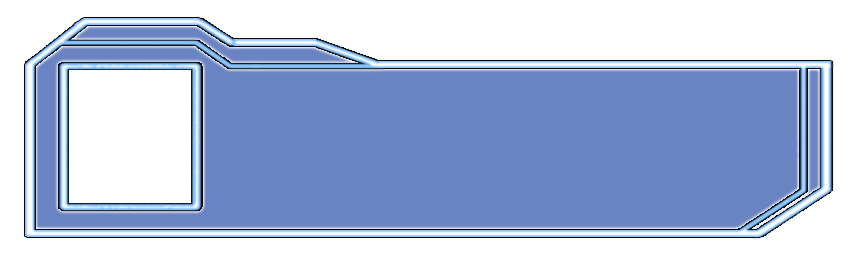
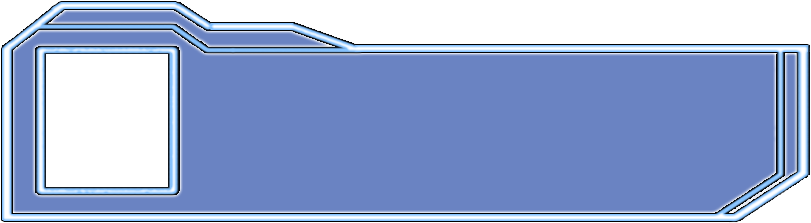
Removed nasty halo from dialogbox.png

diff --git a/js/core/helper.js b/js/core/helper.js
@@ -246,7 +246,7 @@ var gTalk			= new Object();
 gTalk.bild_id 		= "allg_dialogbox";			 //has to be initialised by dialogSettings()
 gTalk.canvas_id		= "null";			 //has to be initialised by dialogSettings()
 gTalk.font_color	= "yellow";			 //can be customized by dialogSettings()
-gTalk.font_style	= "bold 20px Avantgarde"; //can be customized by dialogSettings()
+gTalk.font_style	= "bold 22px Avantgarde"; //can be customized by dialogSettings()
 gTalk.line_distance = 18;				 //can be customized by dialogSettings()
 gTalk.dialog_id		= "null";
 gTalk.SatzCounter	= 0;
@@ -258,10 +258,10 @@ gTalk.TBPercPosX        = 20;    //Textbox X position in %
 gTalk.TBPercPosY        = 20;    //Textbox Y position in %
 gTalk.TBPercWidth       = 100;   //Textbox width in %
 gTalk.TBPercHeight      = 100;   //Textbox height in %
-gTalk.TBPercTextPosX    = 30;    //Textbox text X position in %
+gTalk.TBPercTextPosX    = 25;    //Textbox text X position in %
 gTalk.TBPercTextPosY    = 40;    //Textbox text Y position in %
-gTalk.TBPercImagePosX   = 8.10;  //Textbox image X position in %
-gTalk.TBPercImagePosY   = 27.20; //Textbox image Y position in %
+gTalk.TBPercImagePosX   = 5.65;  //Textbox image X position in %
+gTalk.TBPercImagePosY   = 24.20; //Textbox image Y position in %
 gTalk.TBPercImageWidth  = 100;   //Textbox image width in %
 gTalk.TBPercImageHeight = 100;   //Textbox image height in %
 
